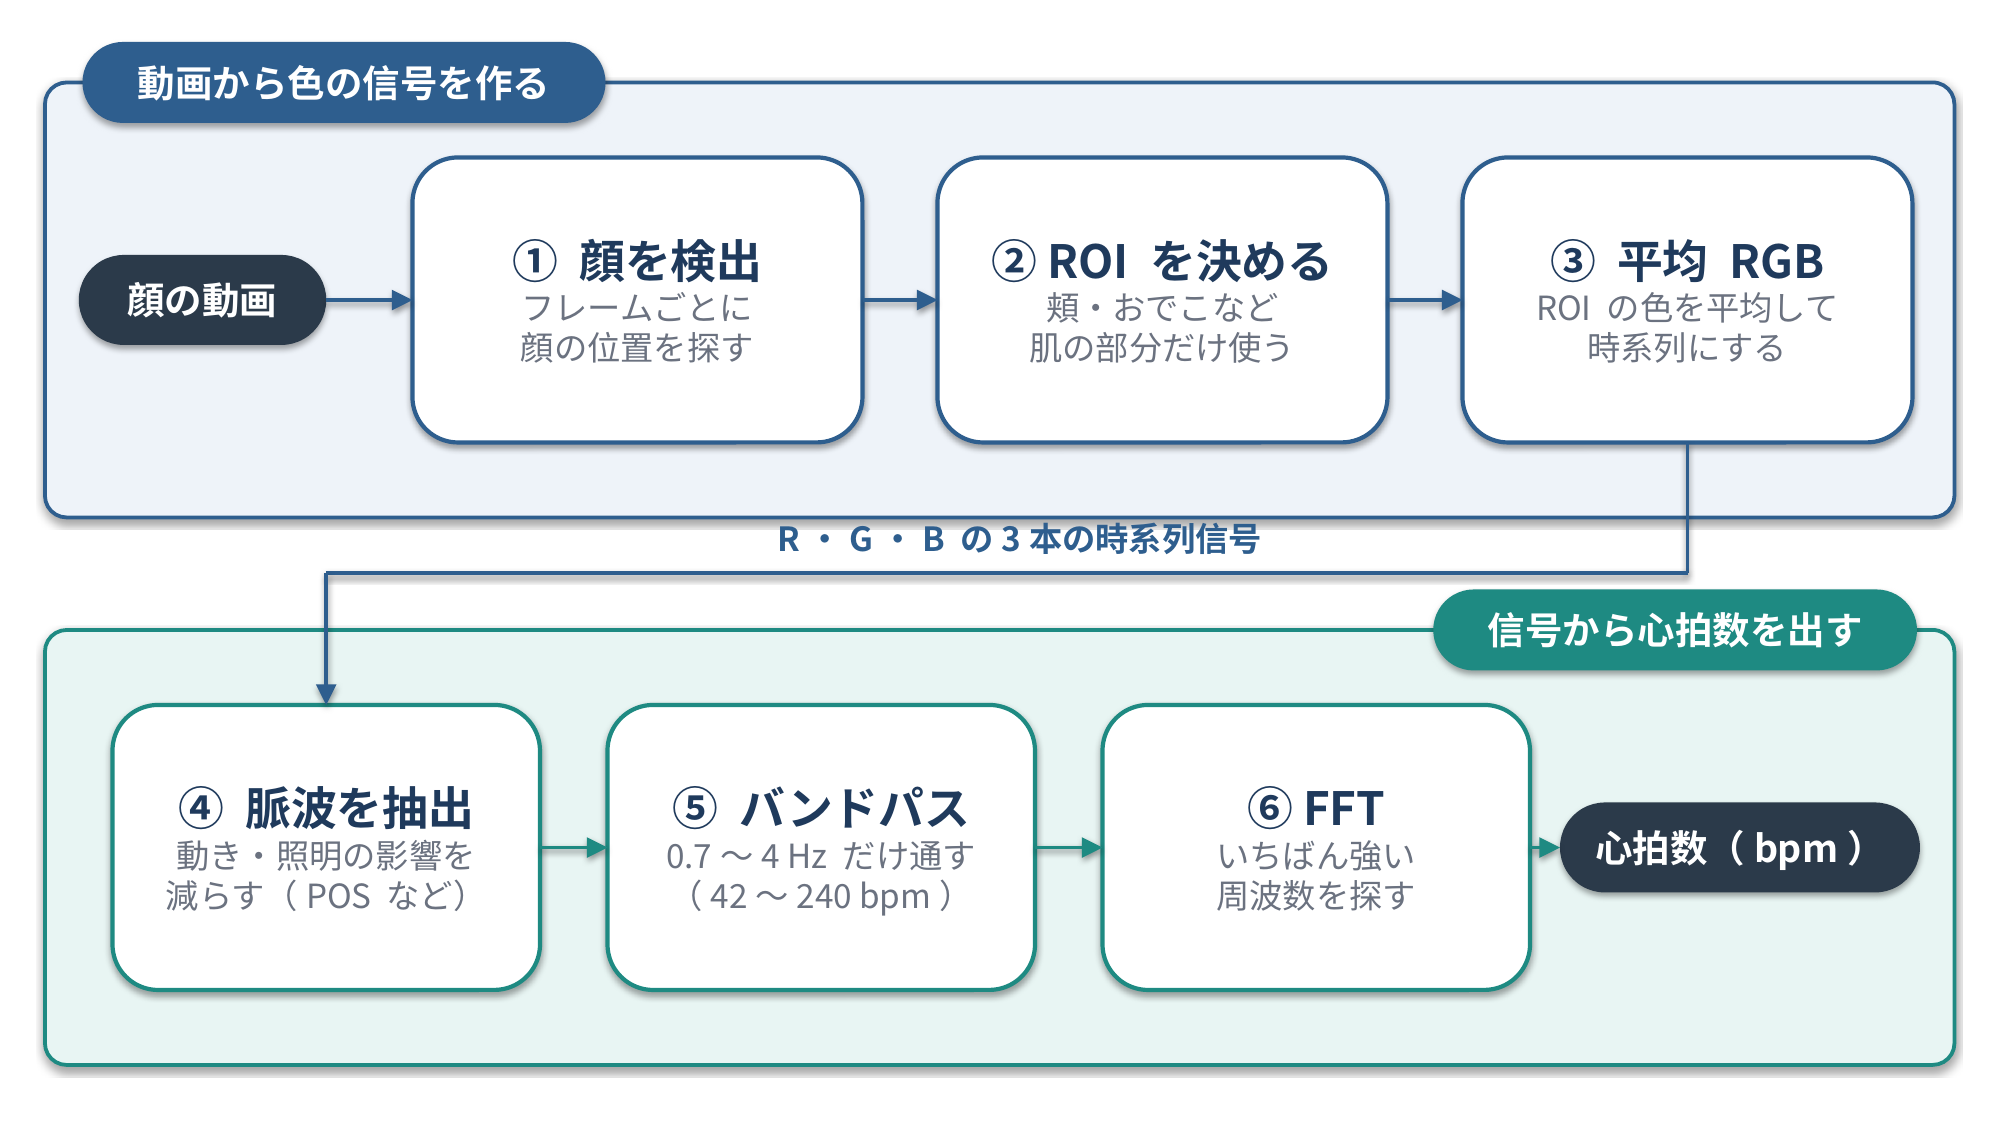
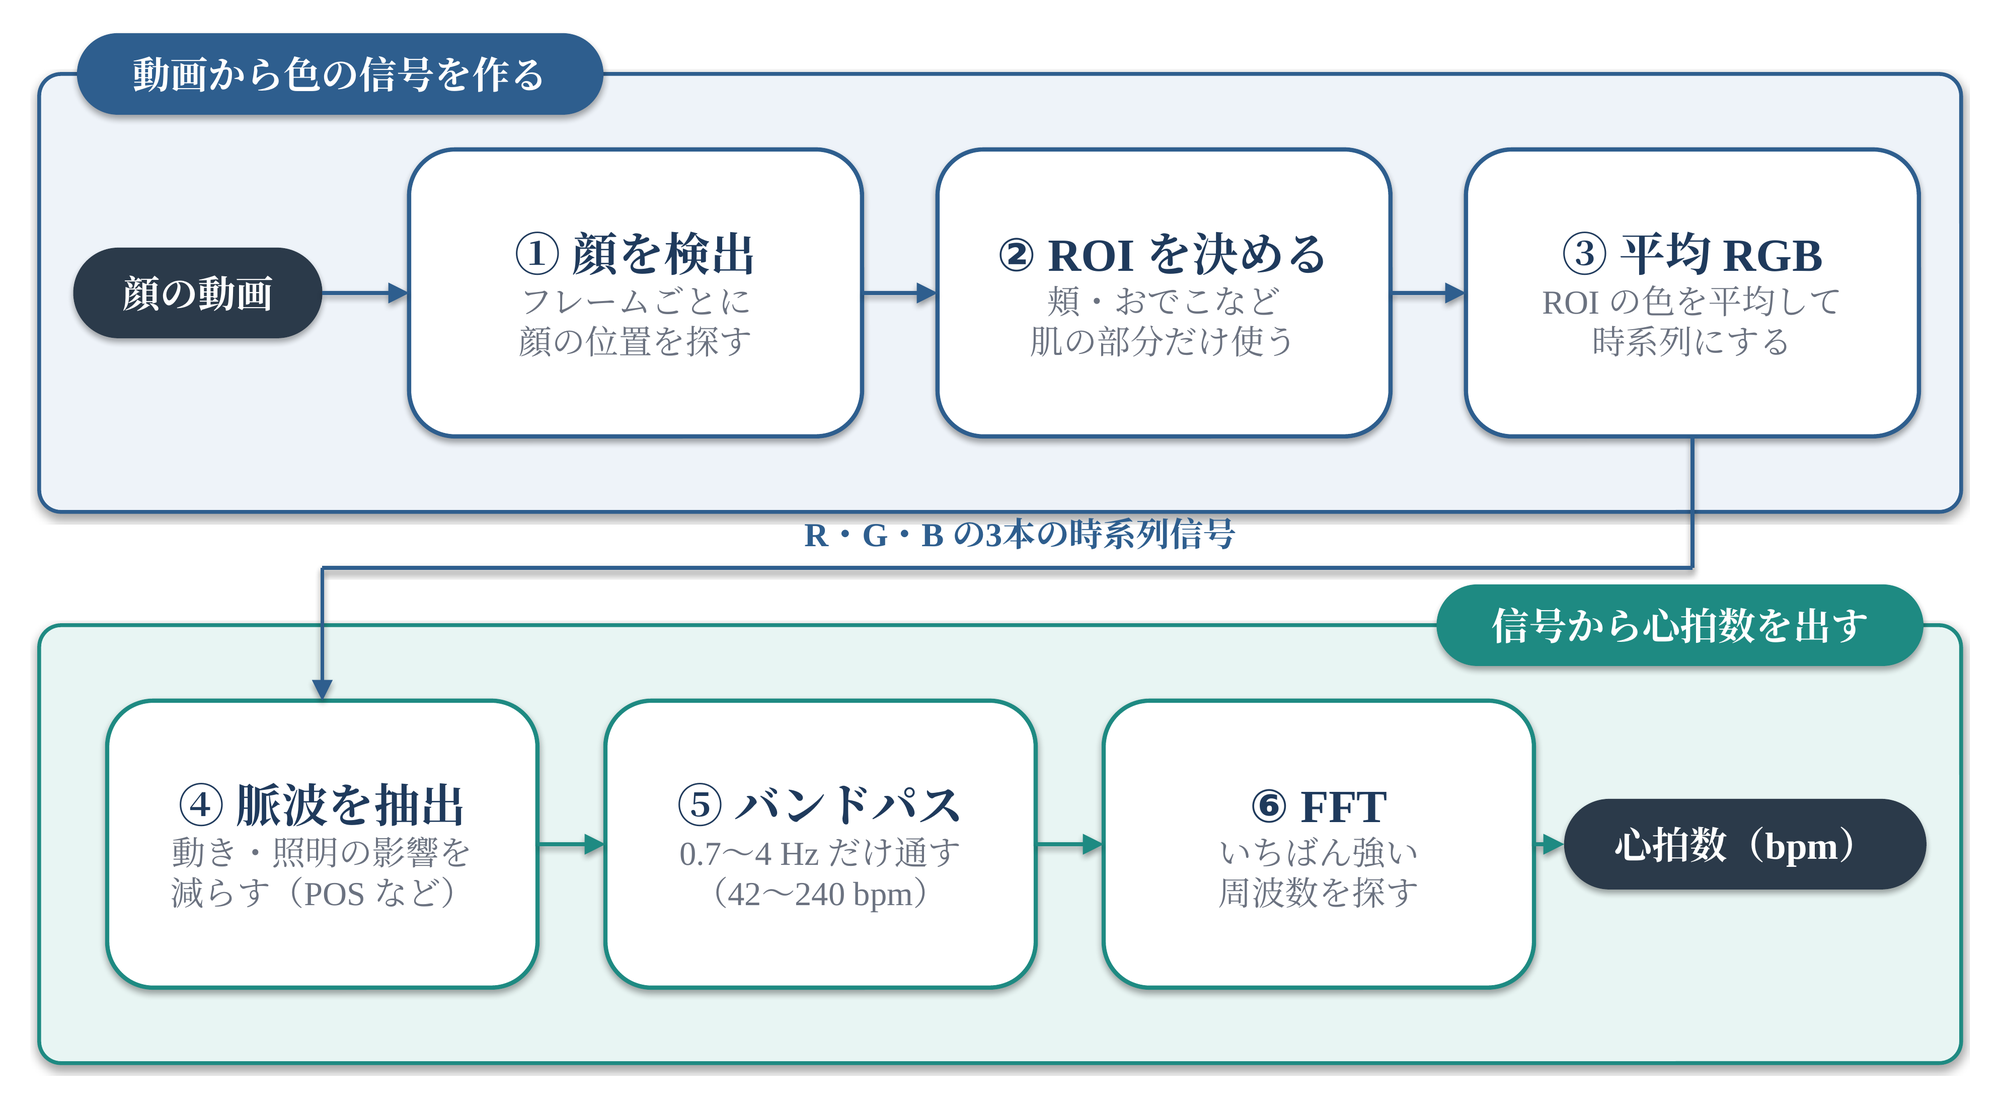
docs(compact): no.7 rPPG のまとめを整理し、図2を明朝に統一する
Claude-Session: https://claude.ai/code/session_011yyXhmrRiKBt4vdbiJsuW1

diff --git a/compact/drafts/no.7-rppg/image/図生成スクリプト_処理の流れ.py b/compact/drafts/no.7-rppg/image/図生成スクリプト_処理の流れ.py
@@ -11,7 +11,7 @@ NAVY=RGBColor(0x2E,0x5E,0x8E); TEAL=RGBColor(0x1E,0x8A,0x82)
 TXT=RGBColor(0x1F,0x3A,0x5C); GRAY=RGBColor(0x6B,0x72,0x80); SLATE=RGBColor(0x2B,0x3A,0x4A)
 WHITE=RGBColor(0xFF,0xFF,0xFF); LNAVY=RGBColor(0xEE,0xF3,0xF9); LTEAL=RGBColor(0xE8,0xF5,0xF3)
 MGRAY=RGBColor(0x9A,0xA5,0xB4)
-FONT="Noto Sans CJK JP"
+FONT="Times New Roman"; FONT_JA="Hiragino Mincho ProN"  # 図1に合わせて明朝（Nico 2026-11-18）
 
 prs=Presentation(); prs.slide_width=Inches(13.333); prs.slide_height=Inches(7.5)
 s=prs.slides.add_slide(prs.slide_layouts[6])
@@ -27,7 +27,7 @@ def text(shape, lines, size=14, color=TXT, bold=False, align=PP_ALIGN.CENTER):
         r=p.add_run(); r.text=t; f=r.font; f.size=Pt(sz); f.color.rgb=c; f.bold=b; f.name=FONT
         rPr=r._r.get_or_add_rPr(); ea=rPr.find(qn('a:ea'))
         if ea is None: ea=etree.SubElement(rPr,qn('a:ea'))
-        ea.set('typeface',FONT)
+        ea.set('typeface',FONT_JA)
 
 def box(x,y,w,h,fill=WHITE,line=NAVY,lw=1.4,adj=0.16):
     sh=s.shapes.add_shape(MSO_SHAPE.ROUNDED_RECTANGLE,Inches(x),Inches(y),Inches(w),Inches(h))

diff --git a/compact/drafts/no.7-rppg/rppg.md b/compact/drafts/no.7-rppg/rppg.md
@@ -83,7 +83,6 @@ private: true
 # まとめ
 
 rPPG は「血液の量の変化 → 肌の色のわずかな変化 → カメラで取り出す」という流れで心拍数を推定します。
-ほかにも押さえておくべき手法があれば、有識者の方教えて欲しいです！
 
 # 参考
 
